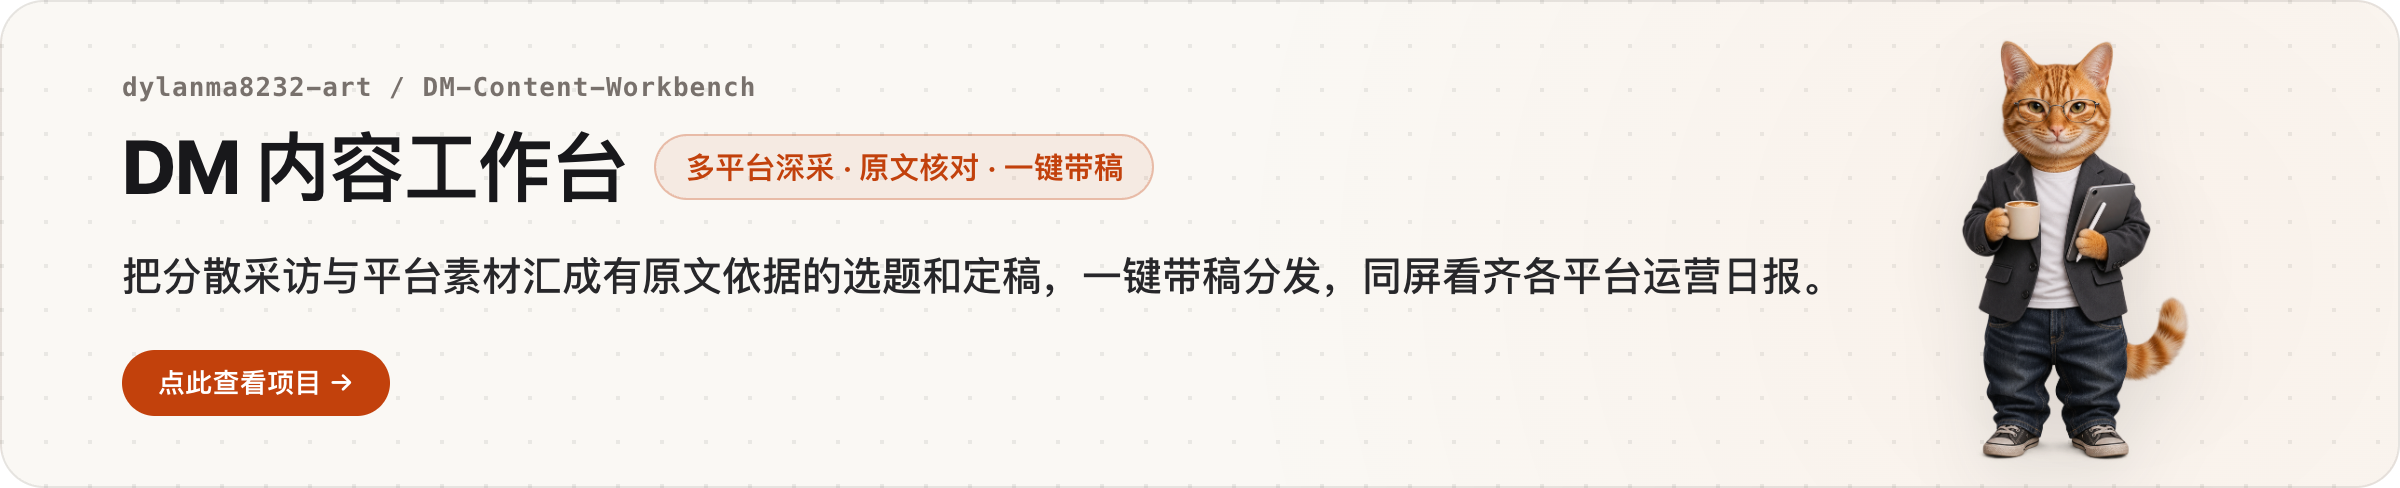
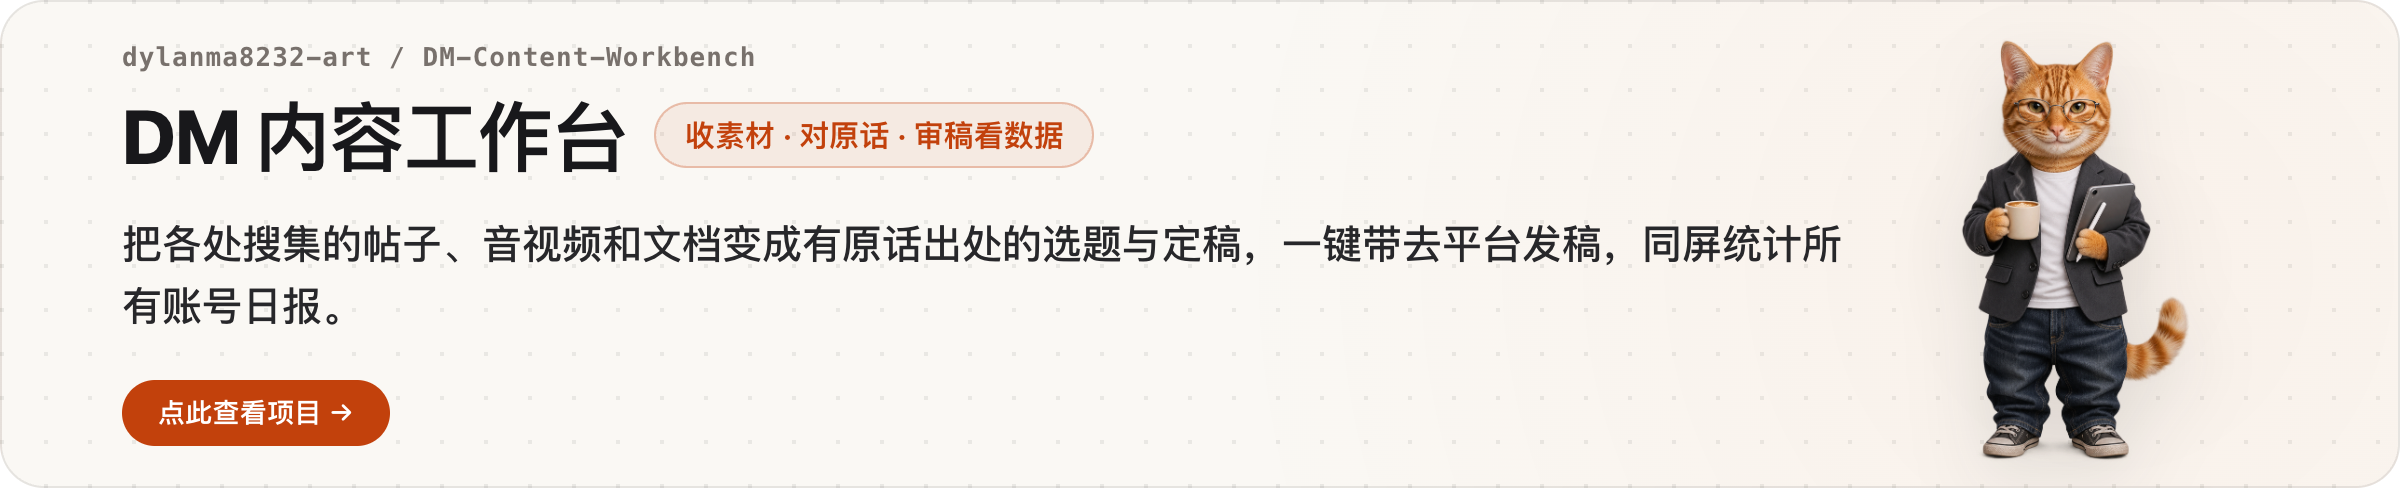
docs(profile): 用大白话更新 DM 内容工作台卡片文案

diff --git a/README.md b/README.md
@@ -28,8 +28,8 @@
 </p>
 
 <p>
-  <a href="https://github.com/dylanma8232-art/DM-Content-Workbench#gh-light-mode-only"><img alt="DM 内容工作台（多平台深采 · 原文核对 · 一键带稿）— 把分散采访与平台素材汇成有原文依据的选题和定稿，一键带稿分发，同屏看齐各平台运营日报。" src="assets/cards/card-content-workbench-light.png#gh-light-mode-only" width="100%"></a>
-  <a href="https://github.com/dylanma8232-art/DM-Content-Workbench#gh-dark-mode-only"><img alt="DM 内容工作台（多平台深采 · 原文核对 · 一键带稿）— 把分散采访与平台素材汇成有原文依据的选题和定稿，一键带稿分发，同屏看齐各平台运营日报。" src="assets/cards/card-content-workbench-dark.png#gh-dark-mode-only" width="100%"></a>
+  <a href="https://github.com/dylanma8232-art/DM-Content-Workbench#gh-light-mode-only"><img alt="DM 内容工作台（收素材 · 对原话 · 审稿看数据）— 把各处搜集的帖子、音视频和文档变成有原话出处的选题与定稿，一键带去平台发稿，同屏统计所有账号日报。" src="assets/cards/card-content-workbench-light.png#gh-light-mode-only" width="100%"></a>
+  <a href="https://github.com/dylanma8232-art/DM-Content-Workbench#gh-dark-mode-only"><img alt="DM 内容工作台（收素材 · 对原话 · 审稿看数据）— 把各处搜集的帖子、音视频和文档变成有原话出处的选题与定稿，一键带去平台发稿，同屏统计所有账号日报。" src="assets/cards/card-content-workbench-dark.png#gh-dark-mode-only" width="100%"></a>
 </p>
 
 ---
